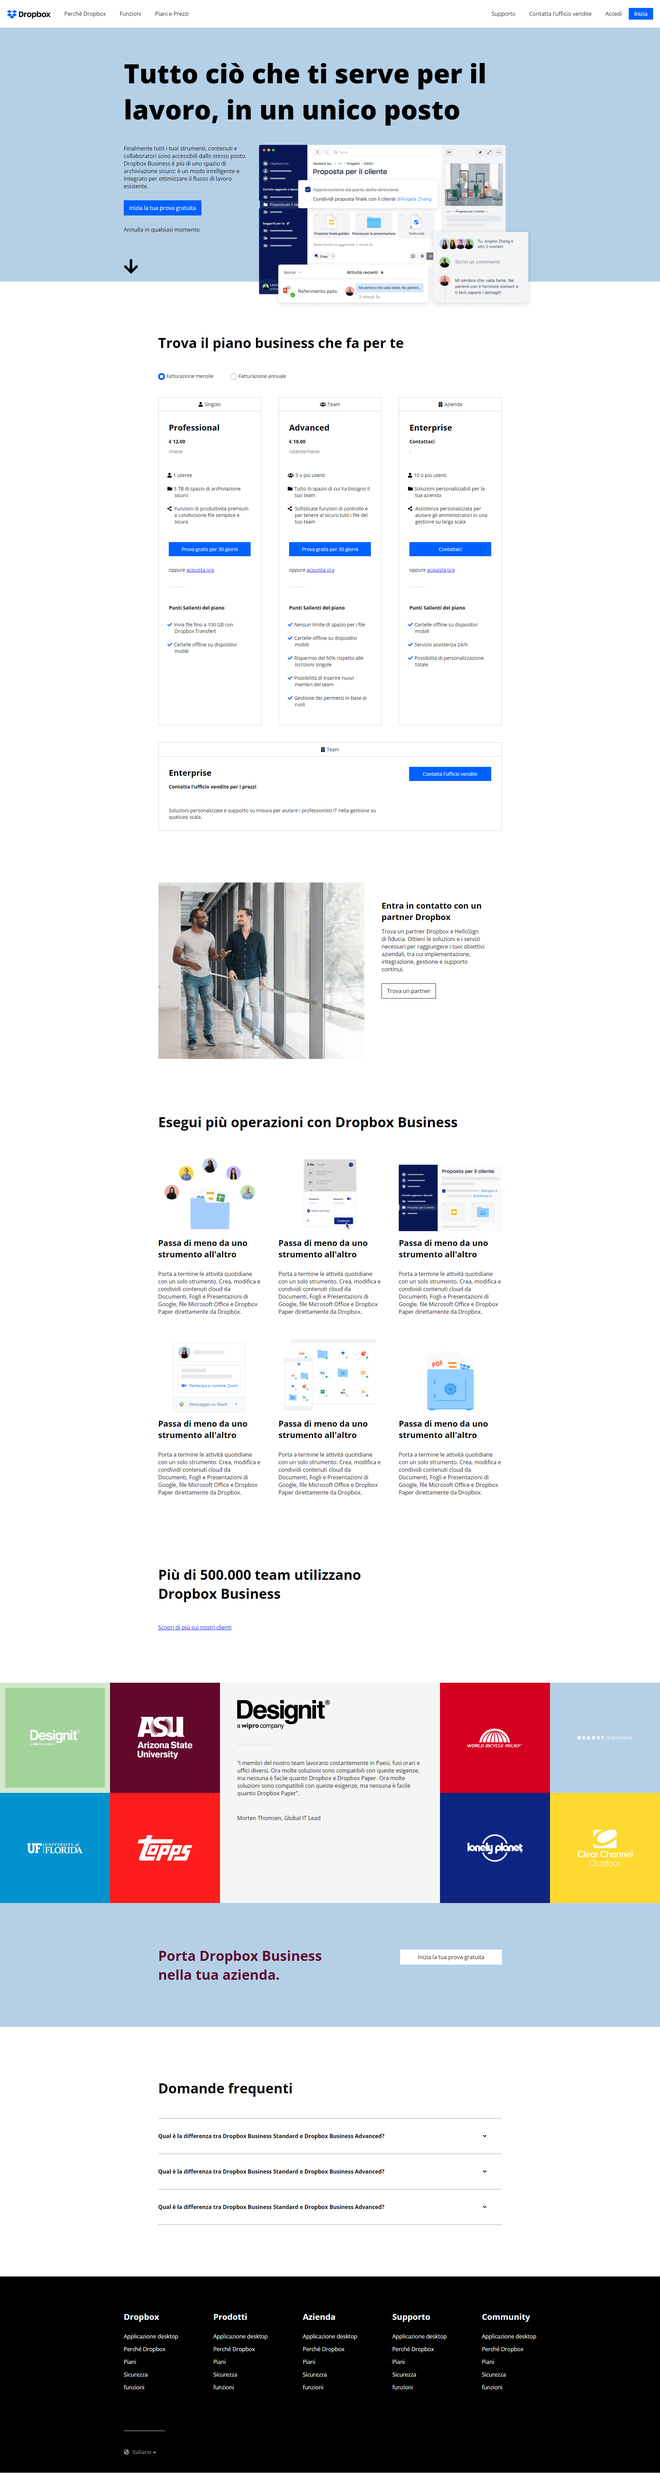
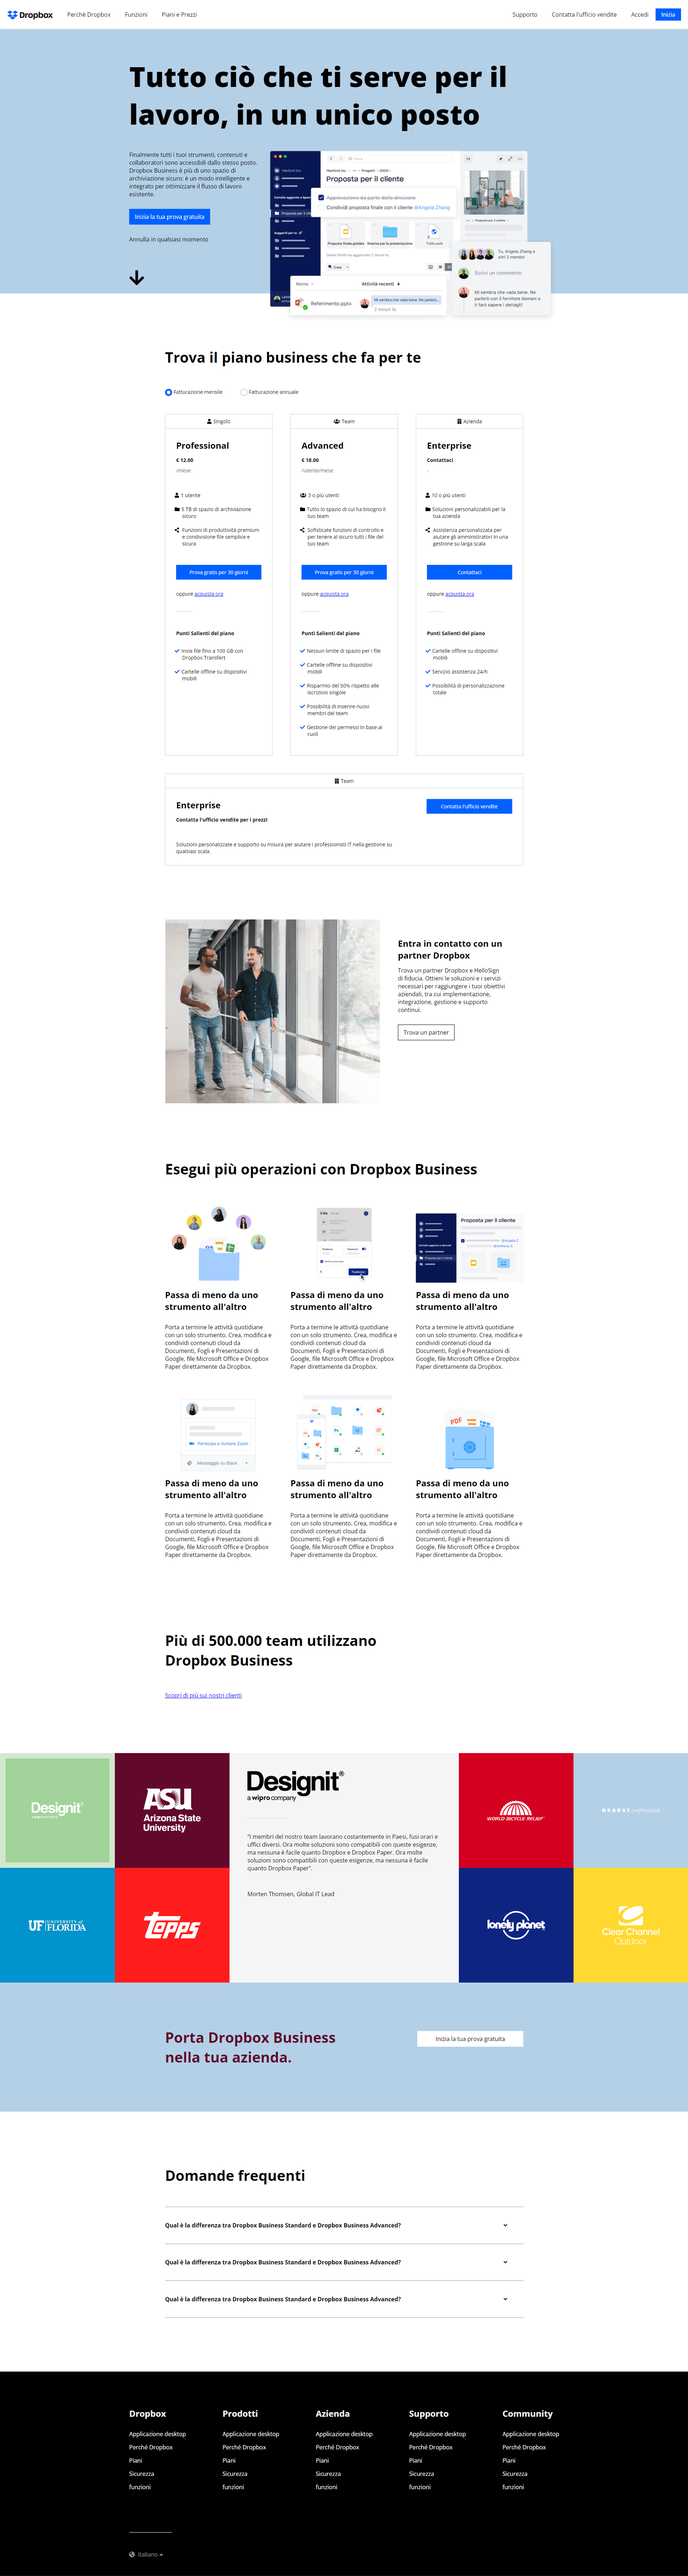
Feat : develop section 2

diff --git a/index.html b/index.html
@@ -5,40 +5,76 @@
     <meta name="viewport" content="width=device-width, initial-scale=1.0">
     <title>Nuovo Progetto</title>
 
-    <!-- <link rel="stylesheet" href="https://cdnjs.cloudflare.com/ajax/libs/font-awesome/6.5.0/css/all.min.css" integrity="sha512-Avb2QiuDEEvB4bZJYdft2mNjVShBftLdPG8FJ0V7irTLQ8Uo0qcPxh4Plq7G5tGm0rU+1SPhVotteLpBERwTkw==" crossorigin="anonymous" referrerpolicy="no-referrer" /> -->
+    <link rel="stylesheet" href="https://cdnjs.cloudflare.com/ajax/libs/font-awesome/6.5.0/css/all.min.css" integrity="sha512-Avb2QiuDEEvB4bZJYdft2mNjVShBftLdPG8FJ0V7irTLQ8Uo0qcPxh4Plq7G5tGm0rU+1SPhVotteLpBERwTkw==" crossorigin="anonymous" referrerpolicy="no-referrer" />
 
     <link rel="stylesheet" href="./css/style.css">
 </head>
 <body>
-    <header class="connections debug">
+    <header class="connections">
         
-        <div class="debug nav_connection">
-            <div class="debug logo_drop">
+        <div class="nav_connection">
+            <div class="logo_drop">
                 <img src="./img/logo-small.png" alt="">
             </div>
-            <div class="debug">navig.</div>
-            <div class="debug">navig.</div>
-            <div class="debug">navig.</div>
+            <div>
+                <span class="nav_opt">Perchè Dropbox</span>
+                <span class="nav_opt">Funzioni</span>
+                <span class="nav_opt">Piani e prezzi</span>
+            </div>
         </div>
 
-        <div class="debug nav_connection">
-            <div class="debug">navig.</div>
-            <div class="debug">navig.</div>
-            <div class="debug">navig.</div>
-            <div class="debug start">Inizia</div>
+        <div class="nav_connection">
+            <div class="nav_opt">Supporto</div>
+            <div class="nav_opt">Contatta l'ufficio vendite</div>
+            <div class="nav_opt">Accedi</div>
+            <div class="nav_opt start">Inizia</div>
         </div>
 
     </header>
 
-    <main class="debug">
+    <main>
 
-        <section class="debug jumbotron">
-            <h1>TITOLO GRANDE</h1>
-            <p>Lorem ipsum, dolor sit amet consectetur adipisicing elit.</p>
-            <img src="" alt="">
+        <section class="back_jumbo">
+            
+            <div class="jumbotron">
+                <div id="title_jumbotron">
+                    <h1>Tutto cio che ti serve per il lavoro, in un'unico posto</h1>
+                </div>
+                
+                <div class="text_img_jumbo">
+                    <div class="presentation">
+                        <p>Finalmente tutti i tuoi strumenti, contenuti e collaboratori sono accessibili dallo stesso posto. Dropbox Business è più di uno spazio di archiviazione sicuro: è un modo intelligente e integrato per ottimizzare il flusso di lavoro esistente.</p>
+                            <span class="start">Inizia la prova gratuita</span>
+                            <p id="variant">Annulla in qualsiasi momento</p>
+                            <i class="fa-solid fa-arrow-down fa-2xl"></i>
+                    </div>
+                    <img class="image" src="./img/jumbo.png" alt="immagine spostata">
+                    
+                </div>
+                
+            </div>
+        
         </section>
 
-        <section class="debug">
+        <section class="debug container">
+            <!-- titolo h2 -->
+            <h2 class="title">Trova il business che fa per te</h2>
+            
+            <!-- input di selezione -->
+            <span>
+                <input type="radio">Fatturazione mensile
+            </span>
+            <span class="subscription">
+                <input type="radio">Fatturazione annuale
+            </span>
+            <!-- clonne (3) con selezione abbonamento -->
+            <div class="type_subsription">
+
+                
+
+            </div>
+            
+            
 
         </section>
 

diff --git a/css/style.css b/css/style.css
@@ -5,6 +5,10 @@
     box-sizing: border-box;    
 }
 
+body{
+    font-family: Arial, Helvetica, sans-serif;
+}
+
 /* ### DEBUG */
 
 .debug{
@@ -17,6 +21,7 @@
 /* caratteristiche del contenitore centrale */
 .container{
     width: 1080px;
+    height: 100vh;
     padding: 0 20px;
     margin: 0 auto;
 }
@@ -24,6 +29,7 @@
 /* ### HEADER */
 
 .connections{
+    padding: 10px;
     display: flex;
     justify-content: space-between;
 }
@@ -31,21 +37,79 @@
 /* testi di selezione nell'header */
 .nav_connection{
     display: flex;
+    align-items: center;
     flex-direction: row;
+}
+
+.nav_opt{
+    margin: 0 10px;
 }
 
 /* tasto a sinistra dell'header INIZIA */
 .start{
+    padding: 10px;
     background-color: rgb(16, 61, 212);
     color: white;
+    width: fit-content;
 }
 
 /* ### MAIN */
 
 /* section contenente il jumbotron */
+
+.back_jumbo{
+    height: 100vh;
+    background-color: hsl(207.06deg 51.52% 80.59%);
+}
+
 .jumbotron{
     width: 1200px;
     padding: 1rem;
     margin: 0 auto;
-    background-color: rgb(83, 64, 165);
+}
+
+.text_img_jumbo{
+    display: flex;
+}
+
+.presentation{
+    width: 420px;
+    text-align: left;
+    display: flex;
+    flex-direction: column;
+    justify-content: space-around;
+}
+
+.presentation .start{
+    display: inline-block;
+}
+
+
+
+#title_jumbotron{
+    text-align: left;
+    font-size: 3.7rem;
+}
+
+.image{
+    width: 830px;
+    position: relative;
+    left: 50px;
+    top: 45px;
+}
+
+/* section di inizio container */
+
+/* Titolo h2 */
+.title{
+    margin: 30px auto;
+    font-size: xx-large;
+}
+
+.subscription{
+    margin-left: 20px;
+}
+
+.type_subsription{
+    
 }
